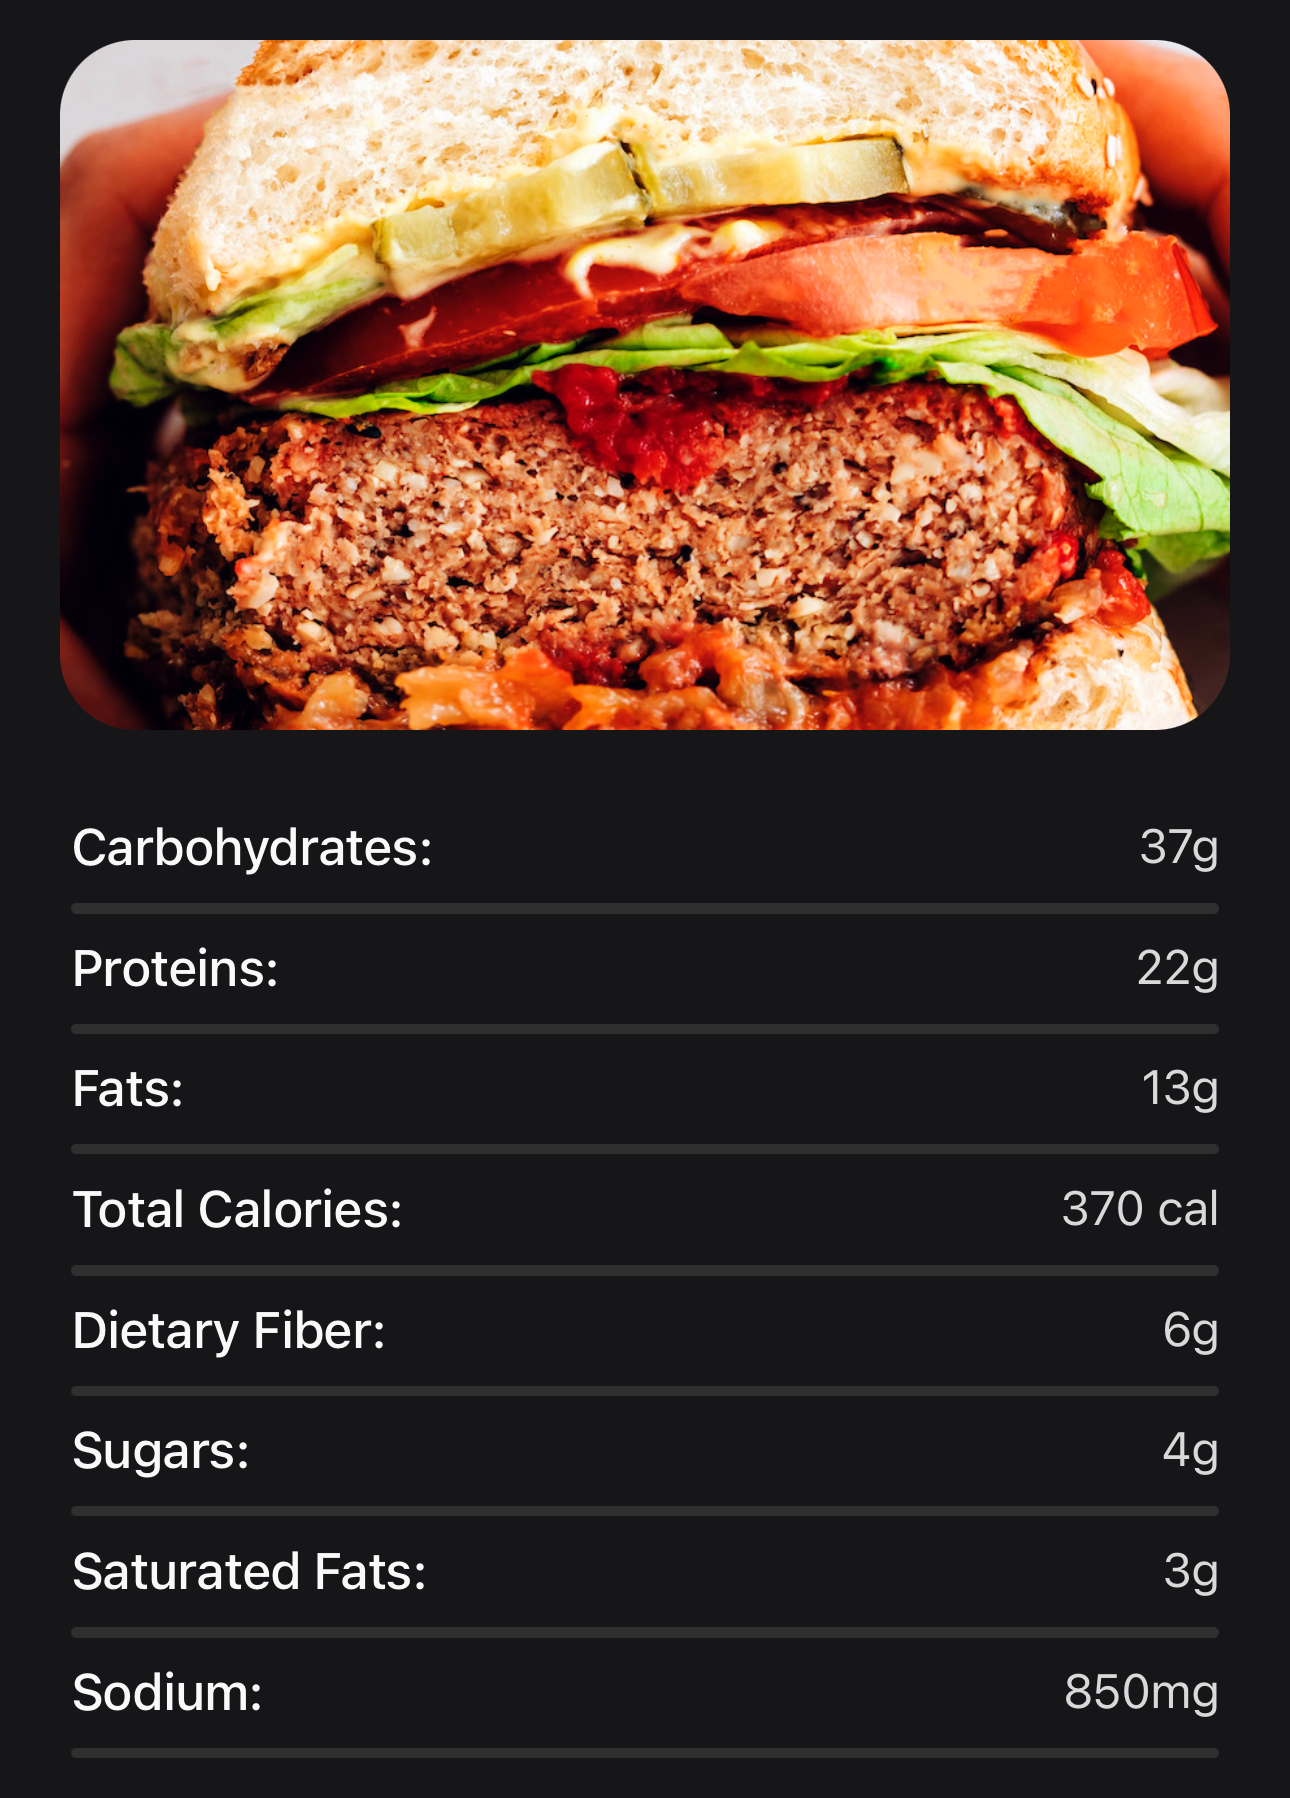
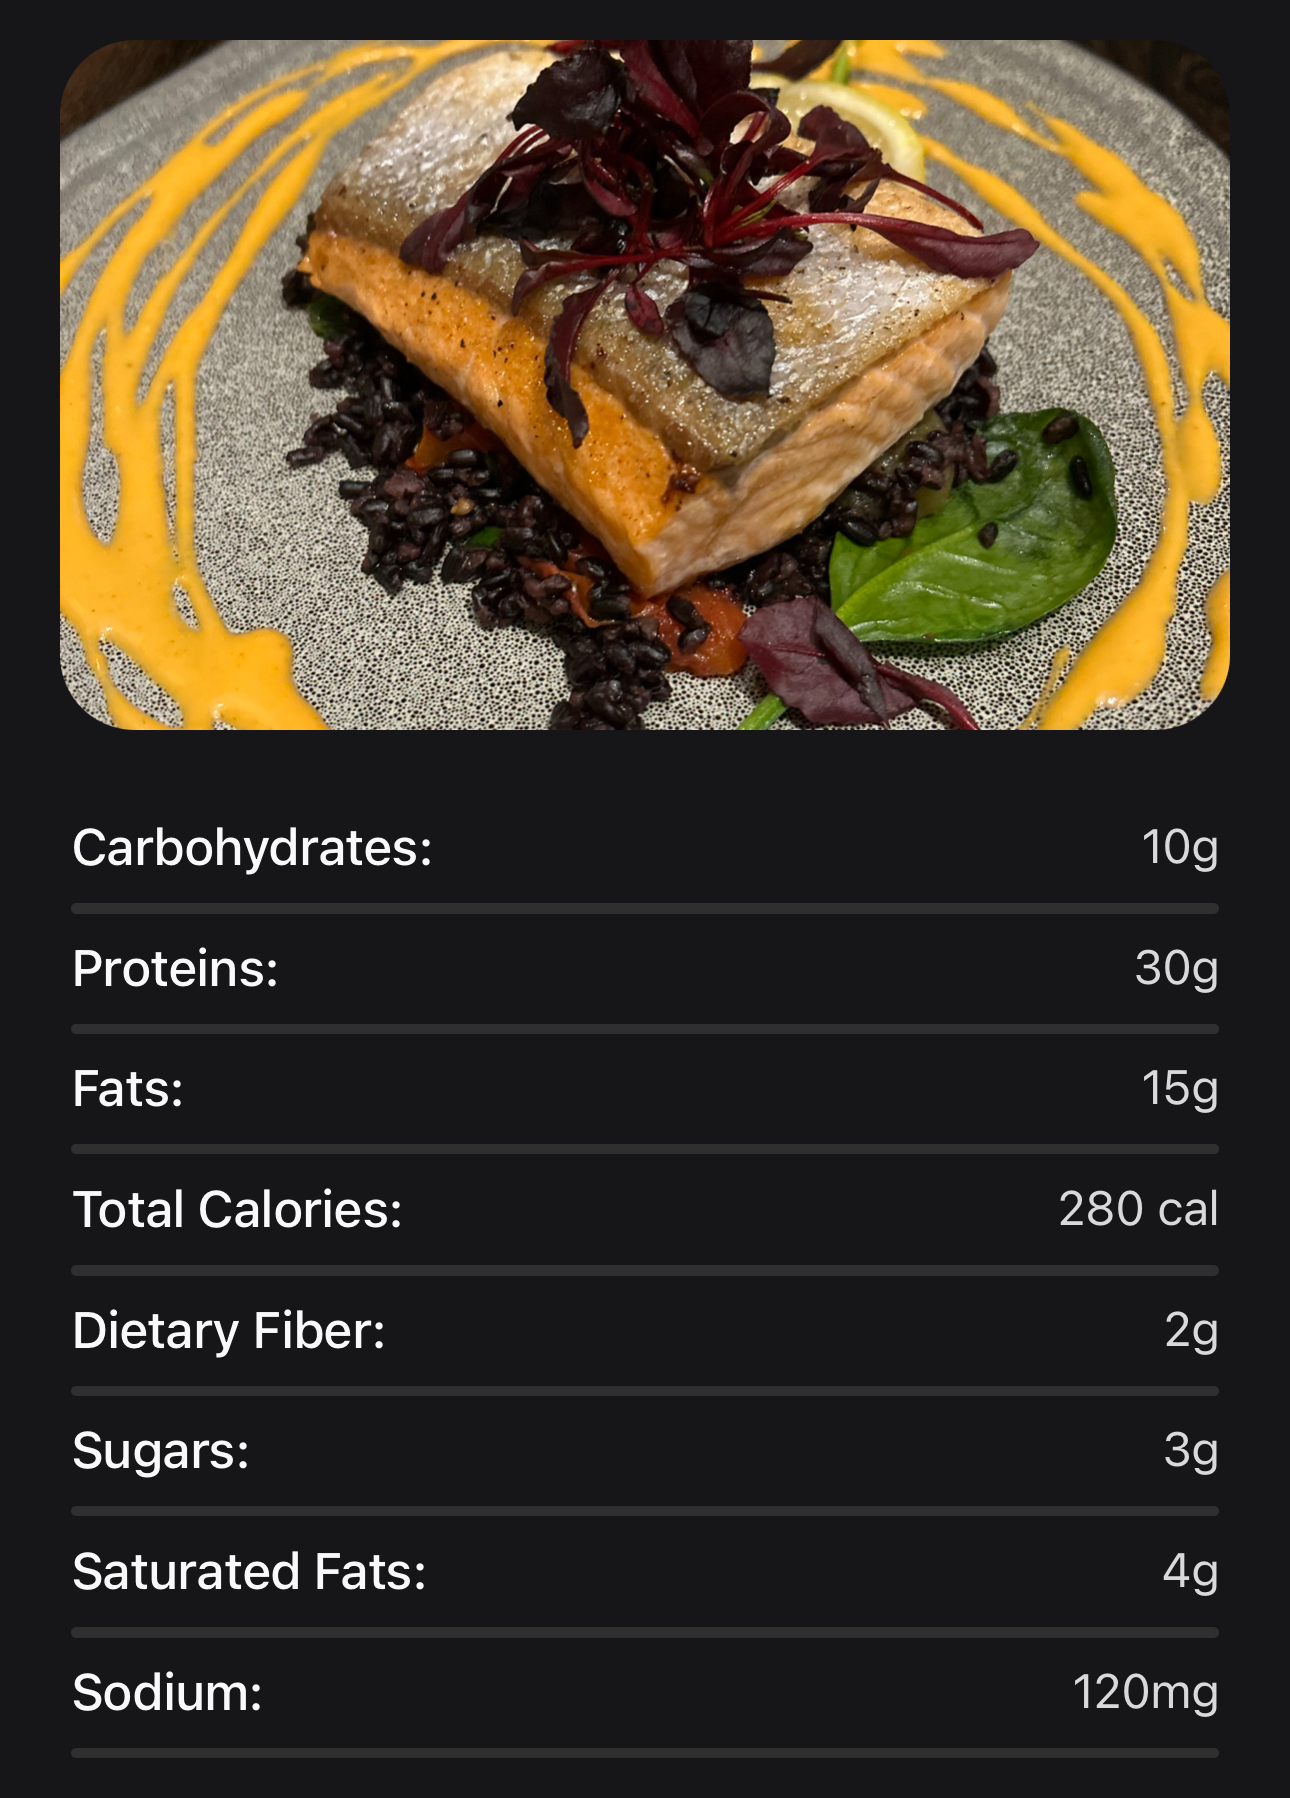
bux fixes and asset updates

diff --git a/screens/HistoryScreen.js b/screens/HistoryScreen.js
@@ -70,6 +70,35 @@ const HistoryScreen = () => {
         }
     };
 
+    const deleteEntry = async (date) => {
+        Alert.alert(
+            "Delete Entry",
+            "Are you sure you want to delete this entry?",
+            [
+                {
+                    text: "Cancel",
+                    onPress: () => console.log("Cancel Pressed"),
+                    style: "cancel"
+                },
+                {
+                    text: "Delete",
+                    onPress: async () => {
+                        try {
+                            const updatedHistory = history.filter(item => item.date !== date);
+                            await AsyncStorage.setItem('@product_history', JSON.stringify(updatedHistory.reverse()));
+                            setHistory(updatedHistory);
+                            console.log("Entry deleted successfully.");
+                        } catch (e) {
+                            console.error("Error deleting entry: ", e);
+                        }
+                    },
+                    style: "destructive"
+                }
+            ],
+            { cancelable: false }
+        );
+    };
+
     const onRefresh = React.useCallback(() => {
         setRefreshing(true);
         loadHistory().then(() => setRefreshing(false));
@@ -126,21 +155,32 @@ const HistoryScreen = () => {
             </TouchableOpacity>
             {history.length > 0 ? (
                 <ScrollView
-                style={styles.scrollContainer}
-                refreshControl={
-                    <RefreshControl refreshing={refreshing} onRefresh={onRefresh} />
-                }
-            >
-                {history.map((item, index) => (
-                    <TouchableOpacity key={index} style={styles.card} onPress={() => setSelectedItem(item)}>
-                        <Image source={{ uri: item.imageUri }} style={styles.productImage} />
-                        <View style={styles.info}>
-                            <Text style={styles.productName}>{item.productName}</Text>
-                            <Text style={styles.date}>{new Date(item.date).toLocaleString()}</Text>
+                    style={styles.scrollContainer}
+                    refreshControl={
+                        <RefreshControl refreshing={refreshing} onRefresh={onRefresh} />
+                    }
+                >
+                    {history.map((item, index) => (
+                        <View key={index} style={styles.cardContainer}>
+                            <TouchableOpacity style={styles.card} onPress={() => setSelectedItem(item)}>
+                                <Image source={{ uri: item.imageUri }} style={styles.productImage} />
+                                <View style={styles.info}>
+                                    <Text style={styles.productName}>{item.productName}</Text>
+                                    <Text style={styles.date}>{new Date(item.date).toLocaleString()}</Text>
+                                </View>
+                                <TouchableOpacity style={styles.deleteButton} onPress={() => deleteEntry(item.date)}>
+                                <SymbolView 
+                                    name="trash.slash.fill" // SF Symbol name for 'close'
+                                    size={26} 
+                                    tintColor={colorScheme === 'dark' ? '#fff' : '#000'} 
+                                    type="hierarchical" // or other types like 'monochrome', 'palette', etc.
+                                    style={styles.symbol}
+                                />
+                            </TouchableOpacity>
+                            </TouchableOpacity>
                         </View>
-                    </TouchableOpacity>
-                ))}
-            </ScrollView>
+                    ))}
+                </ScrollView>
             ) : (
                 <Text style={styles.emptyText}>Your history is currently empty. Items you scan will appear here.</Text>
             )}
@@ -296,7 +336,7 @@ const getDynamicStyles = (colorScheme) => StyleSheet.create({
     },
     iconButton: {
         position: 'absolute', // Corrected to 'absolute' for exact placement
-        right: '5%',  // 5% from the right edge of the screen
+        right: '6%',  // 6.5% from the right edge of the screen
         top: isIphoneSE() ? '5%' : '8%',
         padding: 10,
         zIndex: 1,  // Ensure it stays on top of other components if needed
@@ -321,6 +361,13 @@ const getDynamicStyles = (colorScheme) => StyleSheet.create({
         backgroundColor: colorScheme === 'dark' ? '#3a3a3d' : '#CCCCCC',
         width: '100%', // Make sure this stretches across the nutrient item
         marginVertical: 5,
+    },
+    deleteButton: {
+        alignItems: 'center',
+        justifyContent: 'center',
+        padding: 10,
+        backgroundColor: colorScheme === 'dark' ? '#161618' : '#ddd',
+        borderRadius: 15,
     },
 });
 

diff --git a/screens/HomeScreen.js b/screens/HomeScreen.js
@@ -488,9 +488,25 @@ const takePhoto = async () => {
             Please check my hint before trusting it with these guidelines:
             CRUCIAL GUIDANCE FOR USER INPUT:
       1. If the user's count is excessively inaccurate, e.g., you observe 8 items and the user claims 700, respond only with 'There aren't 700 items.' EXTREMELY IMPORTANT: Do not add further comments or descriptions.
-      2. Exercise judgment regarding the user's reliability before responding. If unsure, either reply with a concise four-word message or provide macronutrient data as outlined above.
+      2. Exercise judgment regarding the user's reliability before responding. If unsure, either reply with a concise four-word message or provide macronutrient data as outlined below.
+        
+        Remainder of rules and formatting guidelines:
+        
+        If the image depicts food, fruits, vegetables, or a beverage, list the macronutrient data for each item, focusing on the following, SAY NOTHING but the following macronutrient data:
+          Name of food(s) (number of food items, eg. bags, plates, pieces, example: 2 burgers. 2 bags. 2 pieces. 2 plates. 2 bowls. If 1 item, do not specify the item number)
+          Carbohydrates (g) per item
+          Proteins (g) per item
+          Fats (g) per item
+          Total Calories (cal) both items
+          Dietary Fiber (g) per item
+          Sugars (g) per item
+          Saturated Fats (g) per item
+          Sodium (mg) per item
 
-        DO NOT REPLY WITH MORE THAN 2 SENTENCES OR ANYTHING OTHER THAN EXACTLY WHAT YOU HAVE BEEN TOLD TO RESPOND WITH.`
+          NOTE: Only include calculations based on the quantity depicted. Exclude additional categories. Name meals by their collective identity, e.g., McDonalds Meal (number of items). Always include the unit next to the measurement.
+
+    Focus on precise amounts, detailing visible food items for an accurate nutrient breakdown, e.g., separate 'Proteins' for chicken.
+    Avoid discussing unrequested details like serving sizes or micronutrients. If no food or beverage is present, simply state 'No food found. Try again.' and cease further comments.`
           }, {
             "type": "image",
             "source": {

diff --git a/screens/AboutScreen.js b/screens/AboutScreen.js
@@ -10,6 +10,7 @@ import {
   Appearance,
   Dimensions,
   Platform,
+  Linking,
 } from 'react-native';
 import { useNavigation } from '@react-navigation/native';
 import { Ionicons } from '@expo/vector-icons';
@@ -46,6 +47,11 @@ const AboutScreen = () => {
     Linking.openURL(`mailto:${email}?subject=${subject}&body=${body}`);
   };
 
+  const handleTermsPress = () => {
+    const policyUrl = "https://www.apple.com/legal/internet-services/itunes/dev/stdeula/";
+    Linking.openURL(policyUrl);
+  };
+
   return (
     <SafeAreaView style={styles.safeArea}>
       <TouchableOpacity style={styles.backButton} onPress={() => navigation.goBack()}>
@@ -58,9 +64,12 @@ const AboutScreen = () => {
             <View style={styles.logoBackground}>
               <Image source={require('../assets/icon.png')} style={styles.logo} />
             </View>
+            <TouchableOpacity style={styles.contactButton} onPress={handleTermsPress}>
+            <Text style={styles.contactButtonText}>Terms and Conditions</Text>
+          </TouchableOpacity>
           </View>
           <Text style={styles.description}>
-            MacroScan v1.0.0 (19)
+            MacroScan v1.0.0 (21)
           </Text>
           <Text style={styles.description}>
             If you have questions, feedback, or concerns, email us from the help and support page in settings.
@@ -127,8 +136,8 @@ const getDynamicStyles = (colorScheme) => StyleSheet.create({
     marginBottom: '5%',
   },
   contactButton: {
-    marginTop: 10,
-    marginBottom: 20,
+    marginTop: 20,
+    marginBottom: 0,
     backgroundColor: colorScheme === 'dark' ? '#2a2a2d' : '#000',
     borderRadius: 90,
     padding: 10,

diff --git a/screens/PrivacyScreen.js b/screens/PrivacyScreen.js
@@ -50,6 +50,11 @@ const PrivacyScreen = () => {
     const body = encodeURIComponent("Please describe your privacy concern or question:");
     Linking.openURL(`mailto:${email}?subject=${subject}&body=${body}`);
   };
+  
+  const handlePolicyPress = () => {
+    const policyUrl = "https://sites.google.com/view/macroscanprivacy/home";
+    Linking.openURL(policyUrl);
+  };
 
   const toggleFaq = index => {
     let updatedFaqs = [...faqOpen];
@@ -108,6 +113,9 @@ const PrivacyScreen = () => {
           </Text>
           <TouchableOpacity style={styles.contactButton} onPress={handleContactPress}>
             <Text style={styles.contactButtonText}>Contact Us About Privacy Concerns</Text>
+          </TouchableOpacity>
+          <TouchableOpacity style={styles.contactButton} onPress={handlePolicyPress}>
+            <Text style={styles.contactButtonText}>Click to view Privacy Policy</Text>
           </TouchableOpacity>
           <Text style={styles.faqHeader}>Frequently Asked Privacy Questions</Text>
           {faqQuestions.map((faq, index) => (

diff --git a/screens/InsightsScreen.js b/screens/InsightsScreen.js
@@ -120,6 +120,7 @@ const InsightsScreen = () => {
             const refreshScreen = async () => {
                 setRefreshing(true);
                 await loadHistory();
+                checkAndUpdateSmartCoach();
                 setRefreshing(false);
             };
             